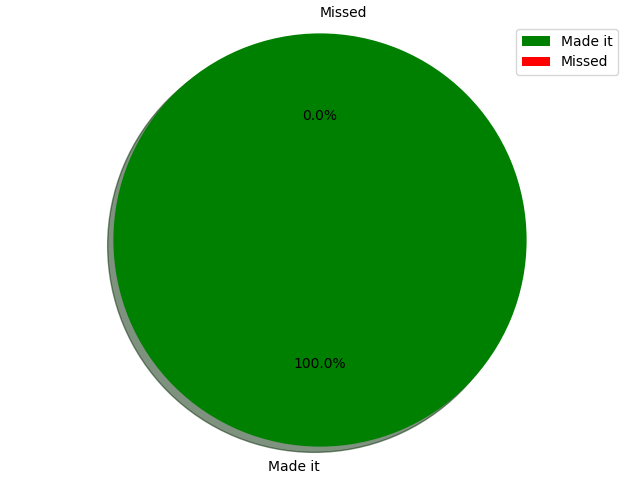
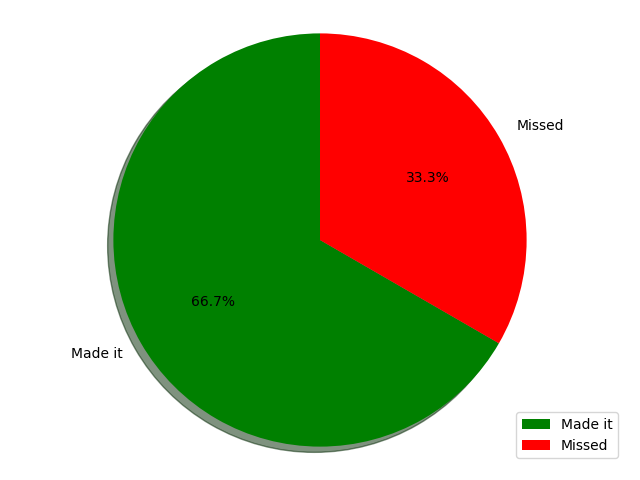
scuffed but done?

diff --git a/check_in_gui/src/interface/screens/teacher_screens/teacher_stats.py b/check_in_gui/src/interface/screens/teacher_screens/teacher_stats.py
@@ -1,6 +1,18 @@
+from kivy.uix.label import Label
 from kivy.uix.screenmanager import Screen
 from kivy.uix.widget import Widget
+from kivy.uix.boxlayout import BoxLayout
+from kivy.uix.button import Button
+from kivy.uix.image import Image
 from kivy.lang.builder import Builder
+from kivy.uix.gridlayout import GridLayout
+from kivy.app import App
+from kivy.properties import StringProperty
+
+from logic.client import student_client
+from logic.charts import generate_pie_check_in_percentage
+from logic.client import student_client
+from utils.config import IMAGES_PATH
 
 Builder.load_file("interface/screens/teacher_screens/teacher_stats.kv")
 
@@ -15,3 +27,44 @@ class TeacherStats(Widget):
 
     def to_dashboard(self):
         self.parent.parent.current = "teacher_dashboard"
+
+
+
+class PieButton(Button):
+    usr = StringProperty("")
+    
+    def __init__(self, usr, **kwargs):
+        super(PieButton, self).__init__(**kwargs)
+        self.usr = usr
+        
+    def bake_pie(self):
+        all_stats = student_client.get_stats(self.usr).all_stats
+        if len(all_stats)>0:
+            generate_pie_check_in_percentage(all_stats)
+            box = BoxLayout()
+            box.add_widget(Image(source=IMAGES_PATH+"/pie.png"))
+            self.parent.parent.parent.parent.parent.parent.parent.add_widget(box)
+
+
+
+class StudentGridTeacherStats(GridLayout):
+    def __init__(self, **kwargs):
+        super(StudentGridTeacherStats, self).__init__(**kwargs)
+        
+    def sync(self, _):
+        self.clear_widgets()
+        t_stat_box = BoxLayout(orientation="vertical")
+        t_grid = GridLayout(cols=1,row_force_default=True, row_default_height=t_stat_box.height/2)
+        t_stat_box.add_widget(Button(text="sync", on_press=self.sync, height=t_stat_box.height/6))
+        for stud in student_client.get_all_students().studs:
+            print(stud)
+            s_grid = GridLayout(cols=1, rows=3)
+            s_grid.add_widget(Label(text=stud.username))
+            s_grid.add_widget(PieButton(usr=stud.username))
+            t_grid.add_widget(s_grid)
+            
+        t_stat_box.add_widget(t_grid)
+        self.add_widget(t_stat_box)
+        
+        
+        

diff --git a/check_in_gui/src/logic/charts.py b/check_in_gui/src/logic/charts.py
@@ -2,18 +2,19 @@ import matplotlib.pyplot as plt
 from utils.config import IMAGES_PATH
 
 def generate_pie_check_in_percentage(stat_list):
-    labels = 'Made it', "Missed"
-    missed_count = 0
-    made_it_count = 0
-    for stat in stat_list:
-        if stat.checked_in_on_time == True:
-            made_it_count+=1
-        else:
-            missed_count+=1
-    sizes = [made_it_count/len(stat_list), missed_count/len(stat_list)]
-    colors = ["green","red"]
-    patches, texts, _ = plt.pie(sizes, labels=labels, autopct='%1.1f%%',shadow=True, startangle=90, colors=colors)
-    plt.legend(patches, labels,loc="best")
-    plt.axis('equal')
-    plt.tight_layout()
-    plt.savefig(IMAGES_PATH+"/pie.png")
+    if len(stat_list)>0:
+        labels = 'Made it', "Missed"
+        missed_count = 0
+        made_it_count = 0
+        for stat in stat_list:
+            if stat.checked_in_on_time == True:
+                made_it_count+=1
+            else:
+                missed_count+=1
+        sizes = [made_it_count/len(stat_list), missed_count/len(stat_list)]
+        colors = ["green","red"]
+        patches, texts, _ = plt.pie(sizes, labels=labels, autopct='%1.1f%%',shadow=True, startangle=90, colors=colors)
+        plt.legend(patches, labels,loc="best")
+        plt.axis('equal')
+        plt.tight_layout()
+        plt.savefig(IMAGES_PATH+"/pie.png")

diff --git a/check_in_gui/src/interface/screens/student_screens/student_stats.py b/check_in_gui/src/interface/screens/student_screens/student_stats.py
@@ -23,12 +23,13 @@ class StudentStatsBox(BoxLayout):
     def get_check_in_pie(self, _):
         app = App.get_running_app()
         all_stats = student_client.get_stats(app.username).all_stats
-        generate_pie_check_in_percentage(all_stats)
-        self.clear_widgets()
-        self.add_widget(Button(text="Check-in Pie", on_press=self.get_check_in_pie))
-        box = BoxLayout()
-        box.add_widget(Image(source=IMAGES_PATH+"/pie.png"))
-        self.add_widget(box)
+        if len(all_stats)>0:
+            generate_pie_check_in_percentage(all_stats)
+            self.clear_widgets()
+            self.add_widget(Button(text="Check-in Pie", on_press=self.get_check_in_pie))
+            box = BoxLayout()
+            box.add_widget(Image(source=IMAGES_PATH+"/pie.png"))
+            self.add_widget(box)
         
     
 
